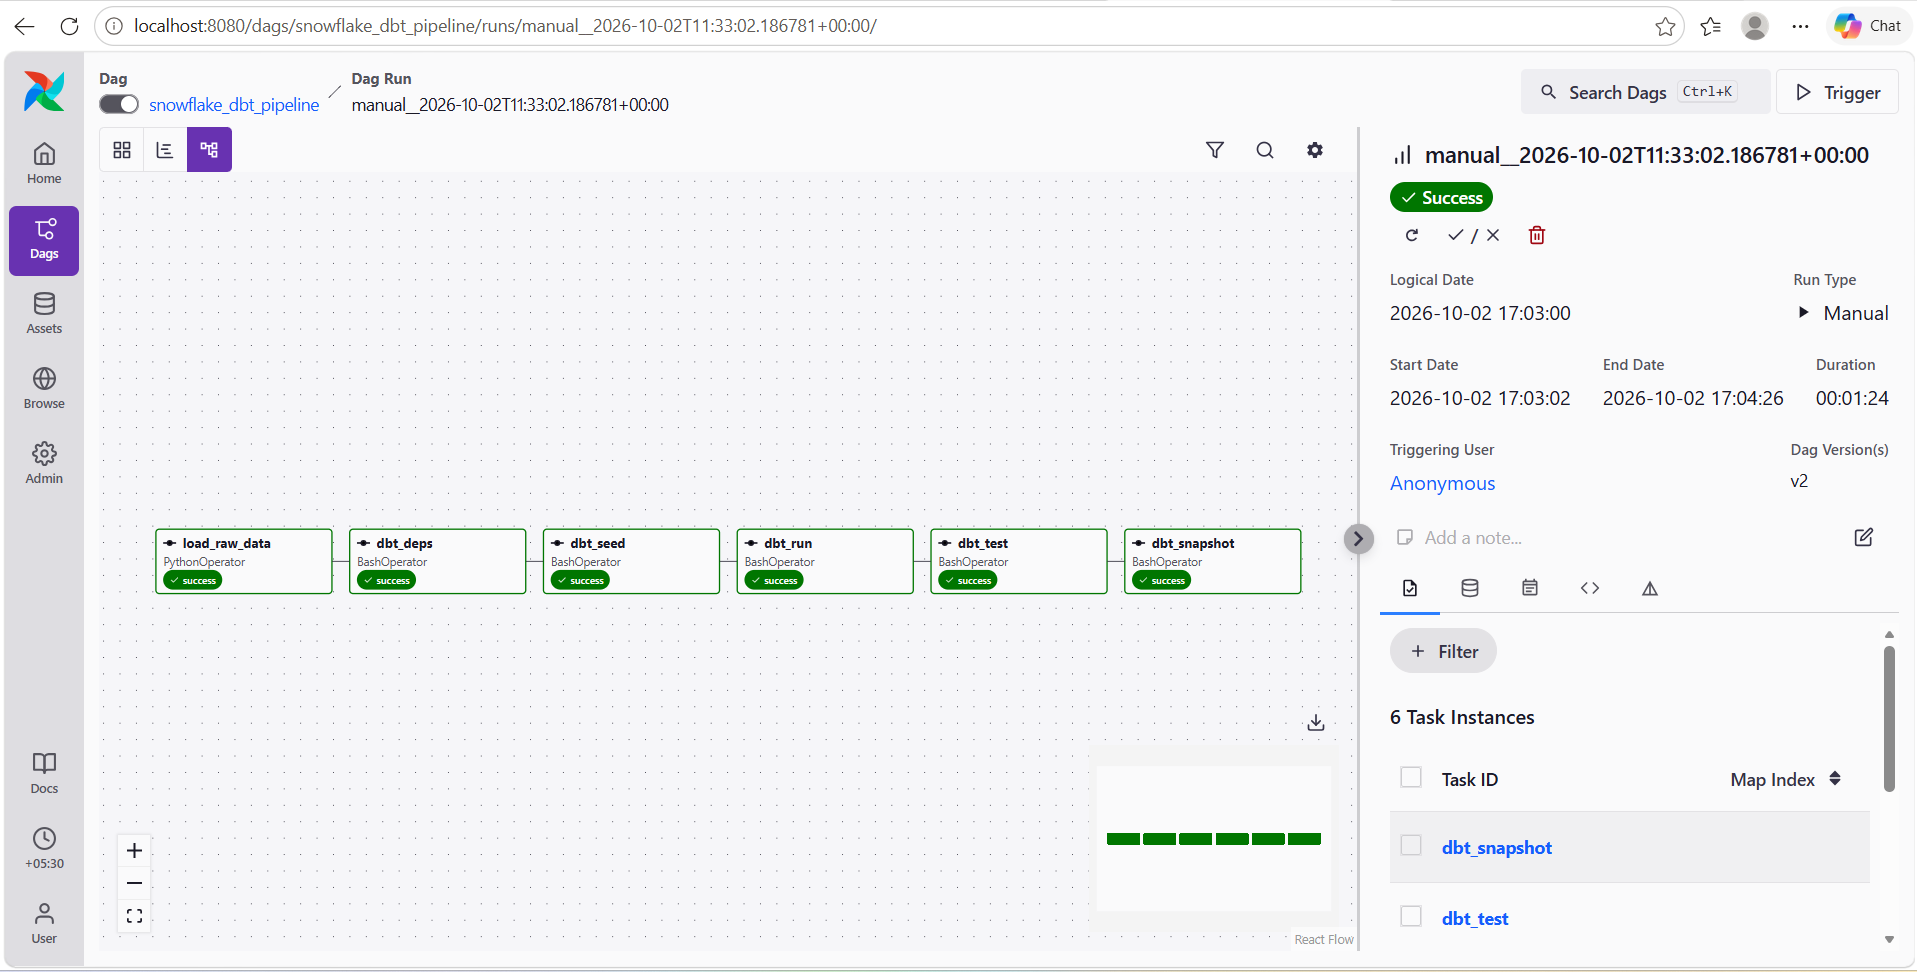
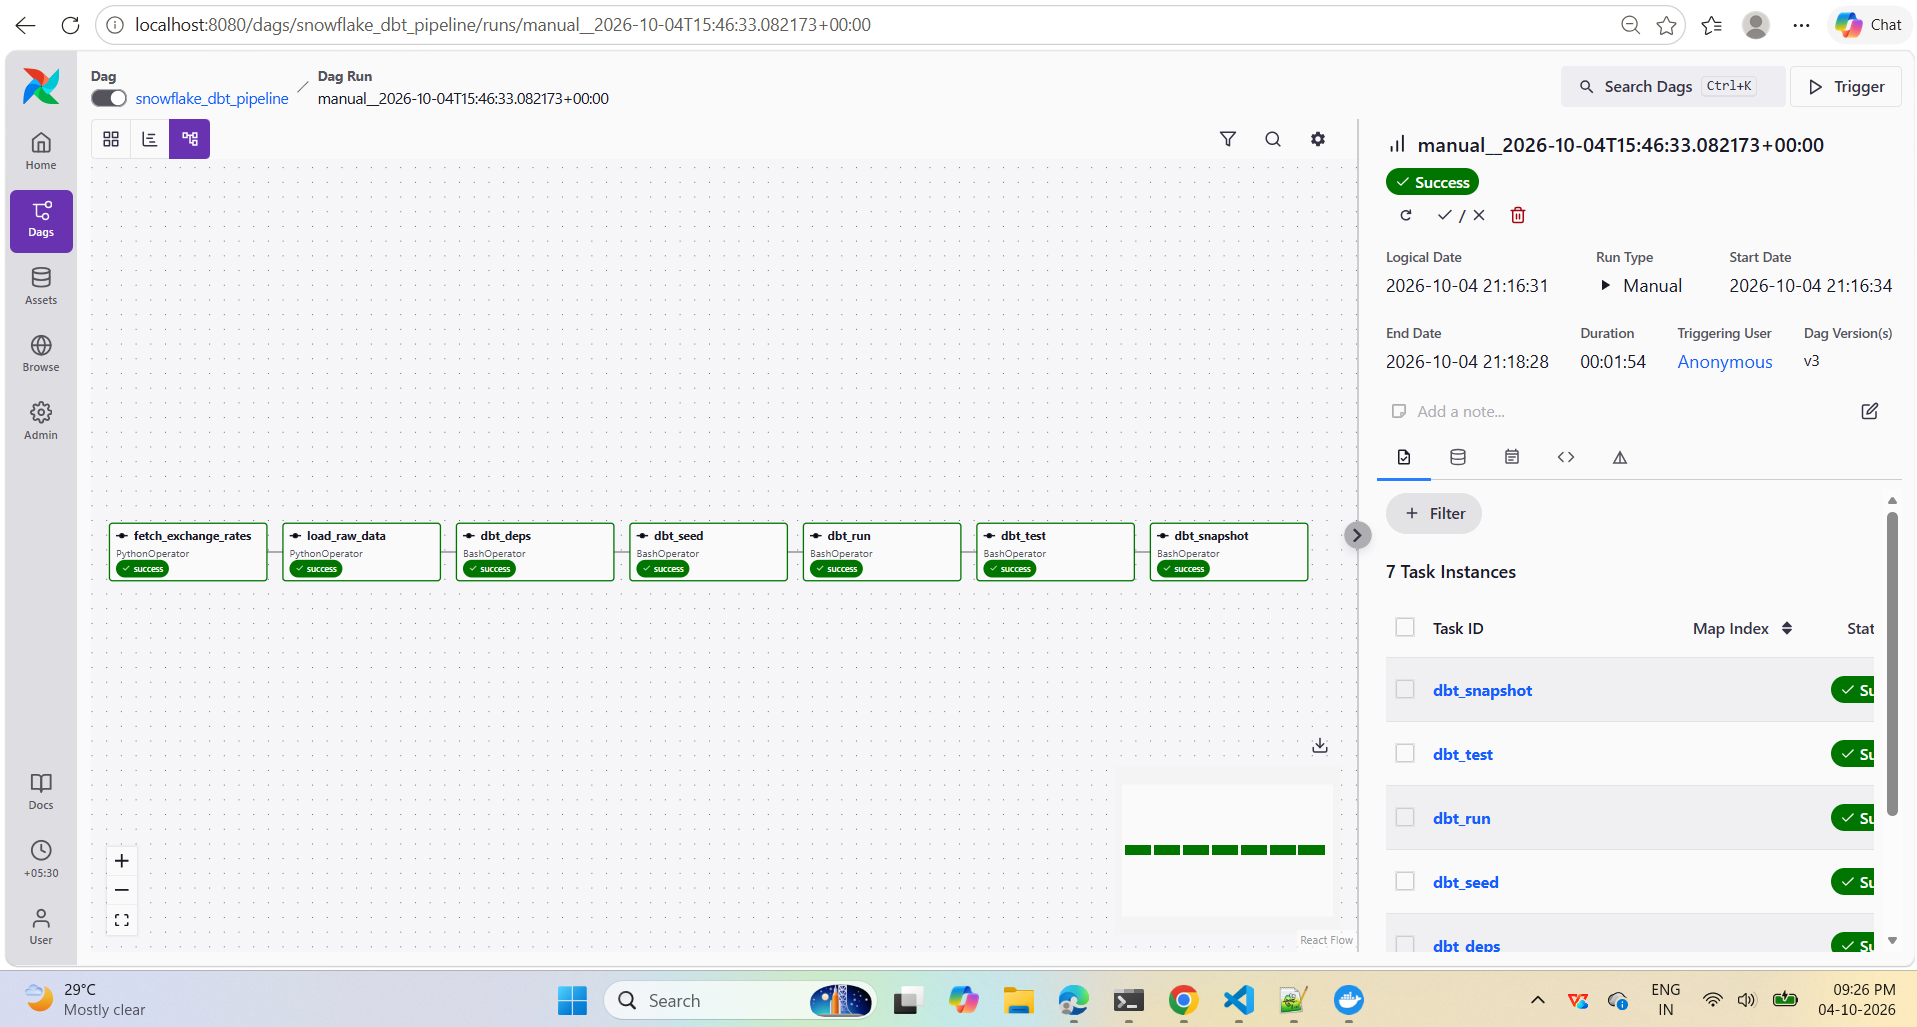
Add exchange rate API ingestion, USD sales mart, and update README

diff --git a/dags/snowflake_dbt_pipeline.py b/dags/snowflake_dbt_pipeline.py
@@ -1,4 +1,7 @@
+import csv
+import json
 import os
+import urllib.request
 from datetime import datetime, timedelta
 
 try:
@@ -16,6 +19,22 @@ except ImportError:
 DBT_DIR = "/usr/local/airflow/dags/dbt_project"
 DATA_DIR = "/usr/local/airflow/include/data"
 KEY_FILE = "/usr/local/airflow/include/keys/rsa_key.p8"
+START_DATE = "2026-09-01"
+
+
+def fetch_exchange_rates():
+    url = f"https://api.frankfurter.dev/v1/{START_DATE}..?from=INR&to=USD"
+    req = urllib.request.Request(url, headers={"User-Agent": "Mozilla/5.0"})
+    with urllib.request.urlopen(req, timeout=30) as resp:
+        data = json.load(resp)
+
+    base = data["base"]
+    with open(f"{DATA_DIR}/exchange_rates.csv", "w", newline="") as f:
+        writer = csv.writer(f)
+        writer.writerow(["rate_date", "base_currency", "target_currency", "rate"])
+        for rate_date, rates in sorted(data["rates"].items()):
+            for target, rate in rates.items():
+                writer.writerow([rate_date, base, target, rate])
 
 
 def load_raw_data():
@@ -33,7 +52,7 @@ def load_raw_data():
     cur = conn.cursor()
     try:
         cur.execute("CREATE STAGE IF NOT EXISTS internal_stage")
-        for table in ["employee", "family", "orders"]:
+        for table in ["employee", "family", "orders", "exchange_rates"]:
             cur.execute(
                 f"PUT file://{DATA_DIR}/{table}.csv @internal_stage "
                 "AUTO_COMPRESS=FALSE OVERWRITE=TRUE"
@@ -64,6 +83,7 @@ with DAG(
     tags=["snowflake", "dbt"],
 ) as dag:
 
+    fetch_rates = PythonOperator(task_id="fetch_exchange_rates", python_callable=fetch_exchange_rates)
     load_raw = PythonOperator(task_id="load_raw_data", python_callable=load_raw_data)
     dbt_deps = BashOperator(task_id="dbt_deps", bash_command=dbt_cmd("deps"))
     dbt_seed = BashOperator(task_id="dbt_seed", bash_command=dbt_cmd("seed"))
@@ -71,4 +91,4 @@ with DAG(
     dbt_test = BashOperator(task_id="dbt_test", bash_command=dbt_cmd("test"))
     dbt_snapshot = BashOperator(task_id="dbt_snapshot", bash_command=dbt_cmd("snapshot"))
 
-    load_raw >> dbt_deps >> dbt_seed >> dbt_run >> dbt_test >> dbt_snapshot
+    fetch_rates >> load_raw >> dbt_deps >> dbt_seed >> dbt_run >> dbt_test >> dbt_snapshot

diff --git a/README.md b/README.md
@@ -1,20 +1,21 @@
 # Snowflake + dbt + Airflow ELT Pipeline
 
-An end-to-end ELT pipeline: raw data is loaded into **Snowflake**, transformed with **dbt** (staging → intermediate → marts), validated with data tests, and orchestrated by **Apache Airflow** running in **Docker** (Astro CLI).
+An end-to-end ELT pipeline: exchange rates are fetched from a public API and sample sales data is loaded into **Snowflake**, transformed with **dbt** (staging → intermediate → marts), validated with data tests, and orchestrated by **Apache Airflow** running in **Docker** (Astro CLI).
 
 This extends my earlier Snowflake + dbt project: [Jahnavi-L-2001/project](https://github.com/Jahnavi-L-2001/project).
 
 ## Pipeline flow
 
-`load_raw_data` → `dbt_deps` → `dbt_seed` → `dbt_run` → `dbt_test` → `dbt_snapshot`
+`fetch_exchange_rates` → `load_raw_data` → `dbt_deps` → `dbt_seed` → `dbt_run` → `dbt_test` → `dbt_snapshot`
 
 | Task | What it does |
 |---|---|
-| `load_raw_data` | Python connects to Snowflake, uploads CSVs to an internal stage, and loads the RAW tables with `COPY INTO` |
+| `fetch_exchange_rates` | Python calls the Frankfurter API (INR→USD rates), parses the JSON response, and writes a CSV |
+| `load_raw_data` | Connects to Snowflake, uploads the CSVs to an internal stage, and loads the RAW tables with `COPY INTO` |
 | `dbt_deps` | Installs dbt packages (`dbt_utils`) |
 | `dbt_seed` | Loads reference data (`valid_categories.csv`) |
-| `dbt_run` | Builds 9 models: staging views, intermediate views, mart tables |
-| `dbt_test` | Runs 28 data tests (not null, unique, relationships, accepted values, custom tests) |
+| `dbt_run` | Builds 11 models: staging views, intermediate views, mart tables |
+| `dbt_test` | Runs 34 data tests (not null, unique, relationships, accepted values, custom tests) |
 | `dbt_snapshot` | Maintains an SCD Type 2 history of orders |
 
 The DAG runs daily with 2 retries per task and `max_active_runs=1` to prevent overlapping runs.
@@ -22,13 +23,19 @@ The DAG runs daily with 2 retries per task and `max_active_runs=1` to prevent ov
 ![Airflow graph view](docs/airflow_graph.png)
 ![Airflow runs](docs/airflow_runs.png)
 
+## Data sources
+
+- **Sales data** (employee, family, orders): sample CSV files in `include/data/`, created for demonstration.
+- **Exchange rates:** the free [Frankfurter API](https://frankfurter.dev) (European Central Bank reference rates, no API key). It is fetched on every run.
+
 ## What is in the dbt project
 
-- **Staging:** `stg_employee`, `stg_family`, `stg_orders` (cleaning and renaming)
+- **Staging:** `stg_employee`, `stg_family`, `stg_orders`, `stg_exchange_rates` (cleaning and renaming)
 - **Intermediate:** `int_employee`, `int_family`, `int_orders_incremental` (joins and an incremental model)
-- **Marts:** `mart_employee_directory`, `mart_sales_by_category`, `family_masked` (with a column-masking macro)
+- **Marts:** `mart_employee_directory`, `mart_sales_by_category`, `family_masked` (with a column-masking macro), and `mart_sales_usd`
+- **`mart_sales_usd`:** converts order amounts to USD using the latest exchange rate on or before each order date, because the ECB publishes rates on working days only
 - **Snapshot:** `orders_snapshot` (SCD Type 2)
-- **Tests:** 28 tests, including custom SQL tests for positive order amounts and masked phone numbers
+- **Tests:** 34 tests, including custom SQL tests for positive order amounts and masked phone numbers
 
 ## Tech stack
 
@@ -38,10 +45,17 @@ Snowflake, dbt Core, Apache Airflow, Docker, Astro CLI, Python, SQL, Git
 
 Snowflake no longer accepts passwords for programmatic access, so dbt and Airflow connect with **key-pair authentication**. The private key and `.env` are never committed (see `.gitignore`).
 
+## Problems solved along the way
+
+- **Key-pair authentication:** switched dbt and Airflow from password login to RSA key pairs after Snowflake's authentication change.
+- **Overlapping runs:** a manual and a scheduled run executed `dbt deps` at the same time and corrupted the package folder. Fixed by setting `max_active_runs=1`.
+- **Data quality catch:** a dbt `relationships` test flagged an employee whose manager did not exist in the data, and I fixed it at the source.
+- **Missing dbt source:** a new staging model failed until its table was declared in `sources.yml`.
+
 ## How to run
 
 1. Install Docker Desktop and the Astro CLI.
-2. In Snowflake, run `dags/dbt_project/snowflake-setup/sql/warehouse_database_schema.sql`, then create the file formats and RAW tables:
+2. In Snowflake, run `dags/dbt_project/snowflake-setup/sql/warehouse_database_schema.sql`, then create the file format and RAW tables:
 ```sql
    USE DATABASE ANALYTICS_DB;
    USE SCHEMA RAW;
@@ -49,6 +63,7 @@ Snowflake no longer accepts passwords for programmatic access, so dbt and Airflo
    CREATE OR REPLACE TABLE employee (empno INT, ename STRING, job STRING, mgr INT, hiredate DATE, sal FLOAT, comm FLOAT, deptno INT);
    CREATE OR REPLACE TABLE family (parent_name STRING, gender STRING, dob DATE, city STRING, state STRING, house_number STRING, office_phone STRING, personal_phone STRING, kid_name STRING);
    CREATE OR REPLACE TABLE orders (order_id INT, customer_name STRING, order_date DATE, category STRING, amount FLOAT);
+   CREATE OR REPLACE TABLE exchange_rates (rate_date DATE, base_currency STRING, target_currency STRING, rate FLOAT);
 ```
 3. Generate an RSA key pair, attach the public key to your Snowflake user (`ALTER USER ... SET RSA_PUBLIC_KEY=...`), and save the private key as `include/keys/rsa_key.p8`.
 4. Create a `.env` file in the project root:
@@ -64,6 +79,6 @@ Snowflake no longer accepts passwords for programmatic access, so dbt and Airflo
 
 ## Notes
 
-- The data in `include/data/` is **sample data** created for demonstration.
+- The sales data in `include/data/` is **sample data** created for demonstration.
 - The earlier version of this project loaded data from AWS S3 using a storage integration and Snowpipe. Those scripts are kept in `dags/dbt_project/snowflake-setup/sql/`, but this version loads through an internal Snowflake stage so it runs without an AWS account.
 - `snowflake-setup/snowpark/connect.py` comes from the earlier version and uses password authentication, which Snowflake no longer supports.
